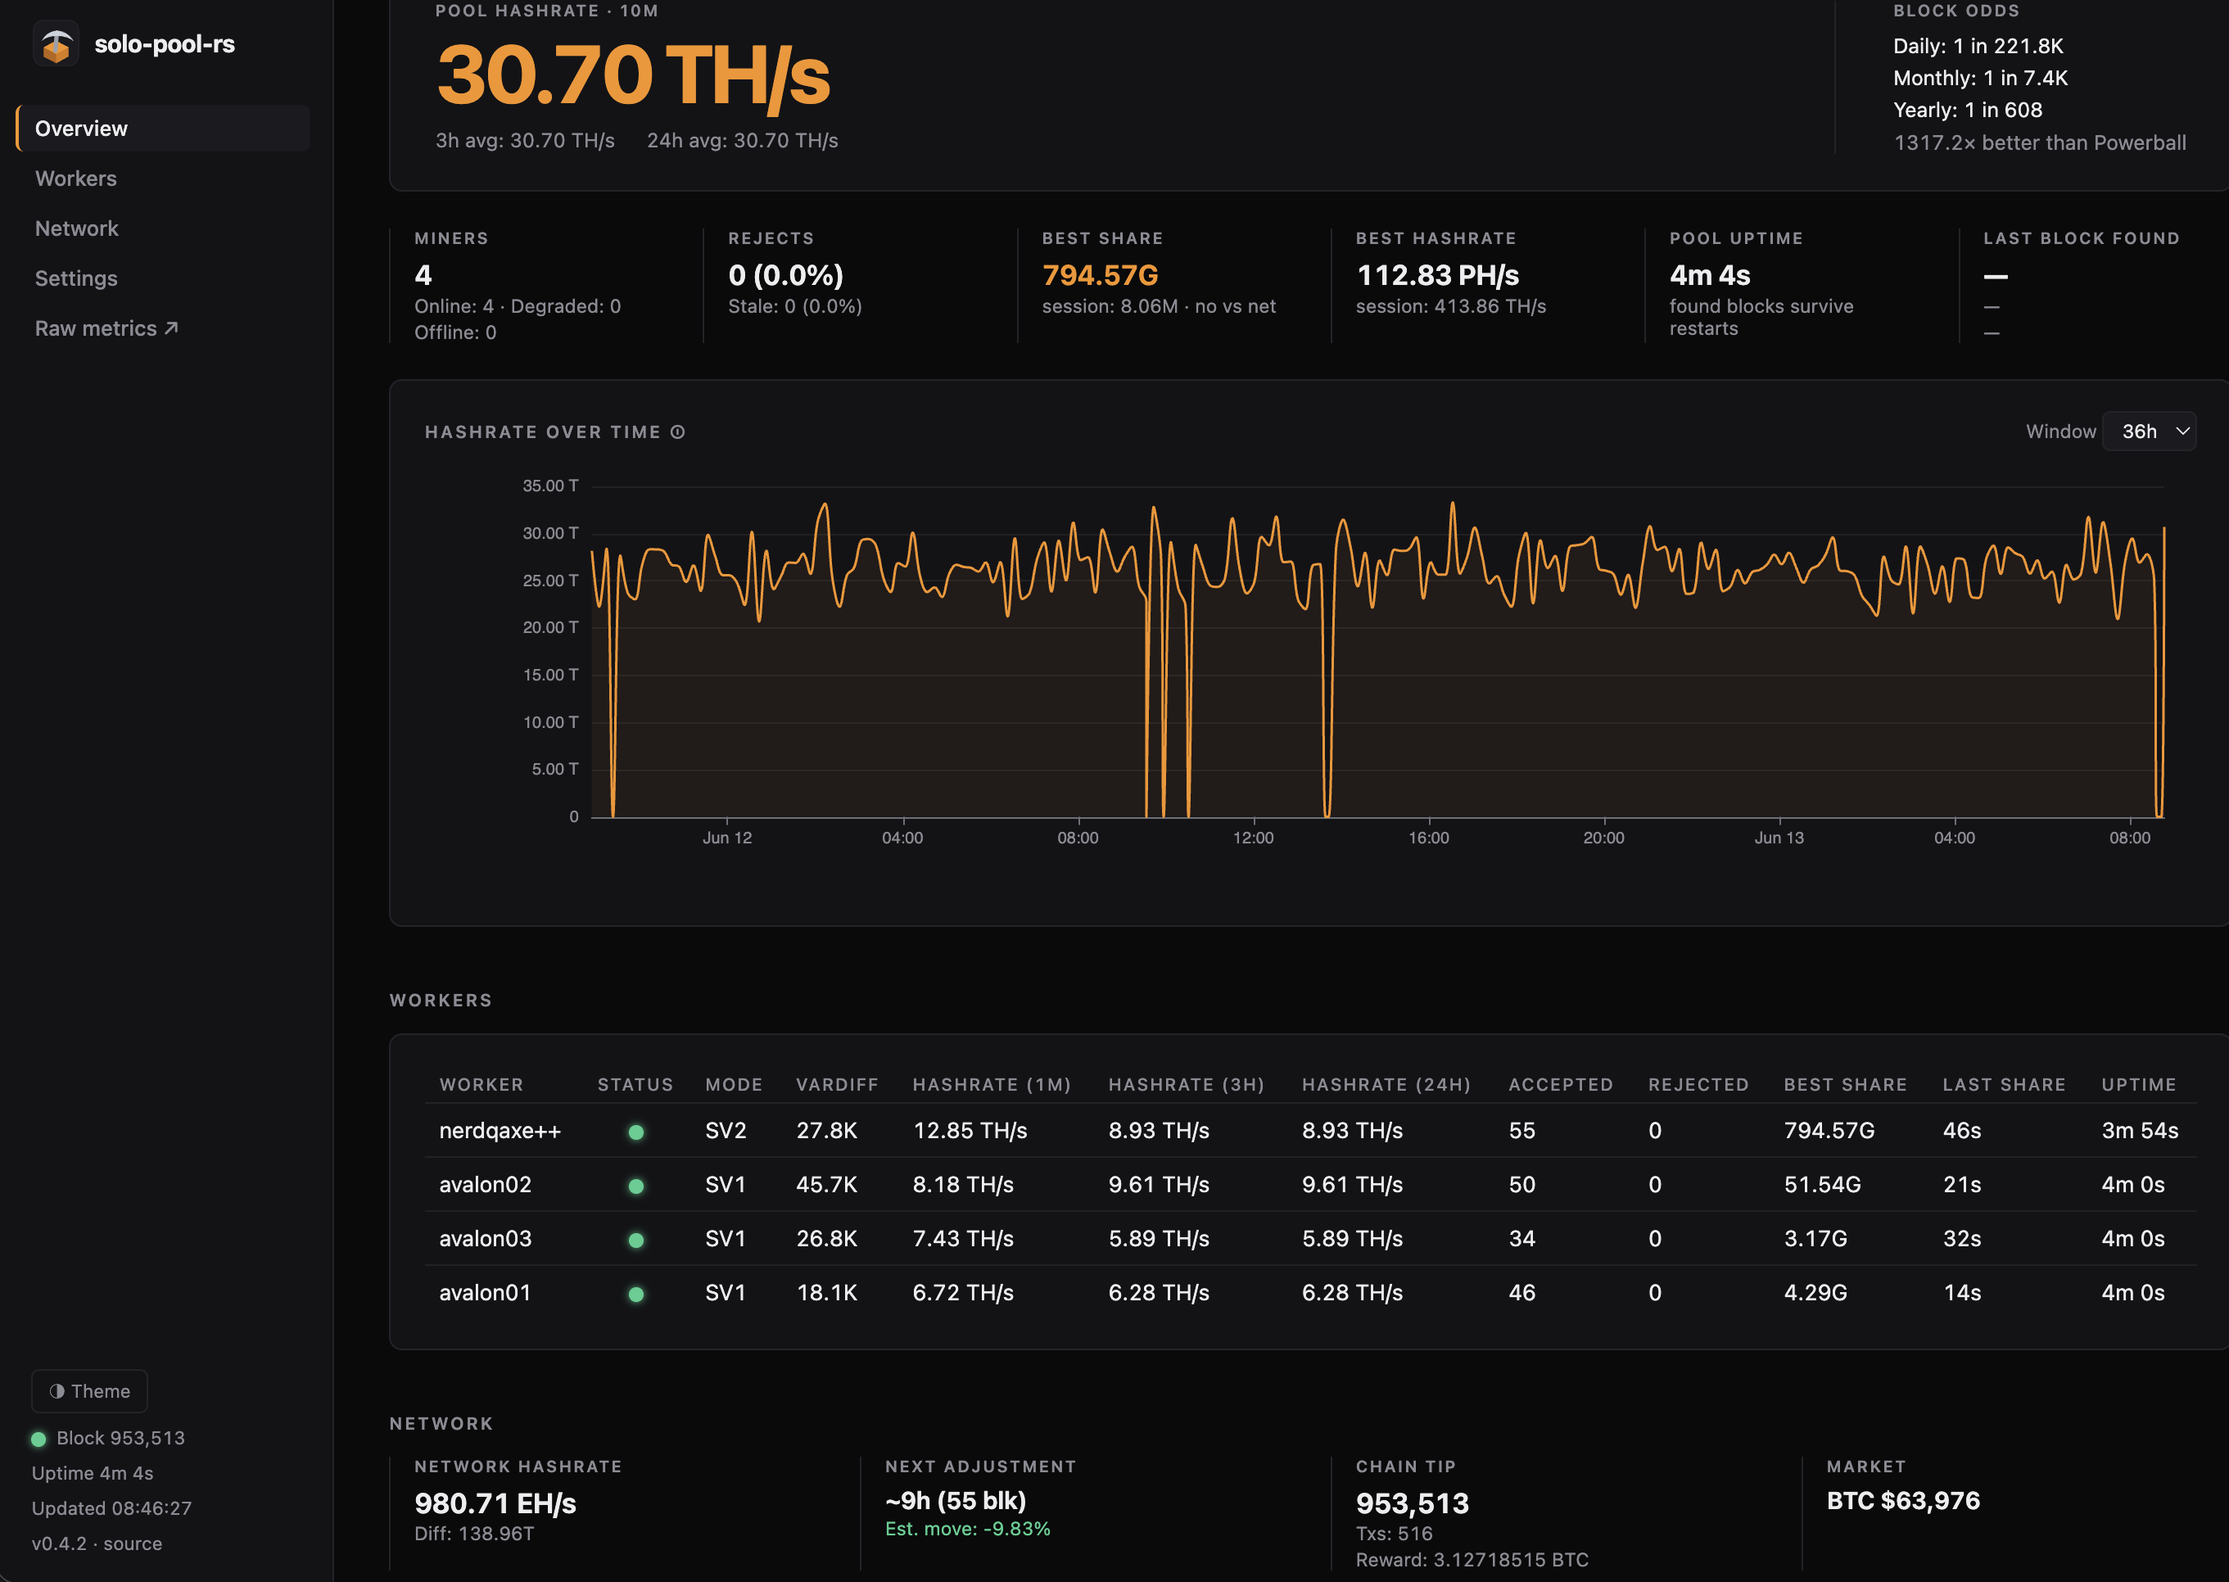
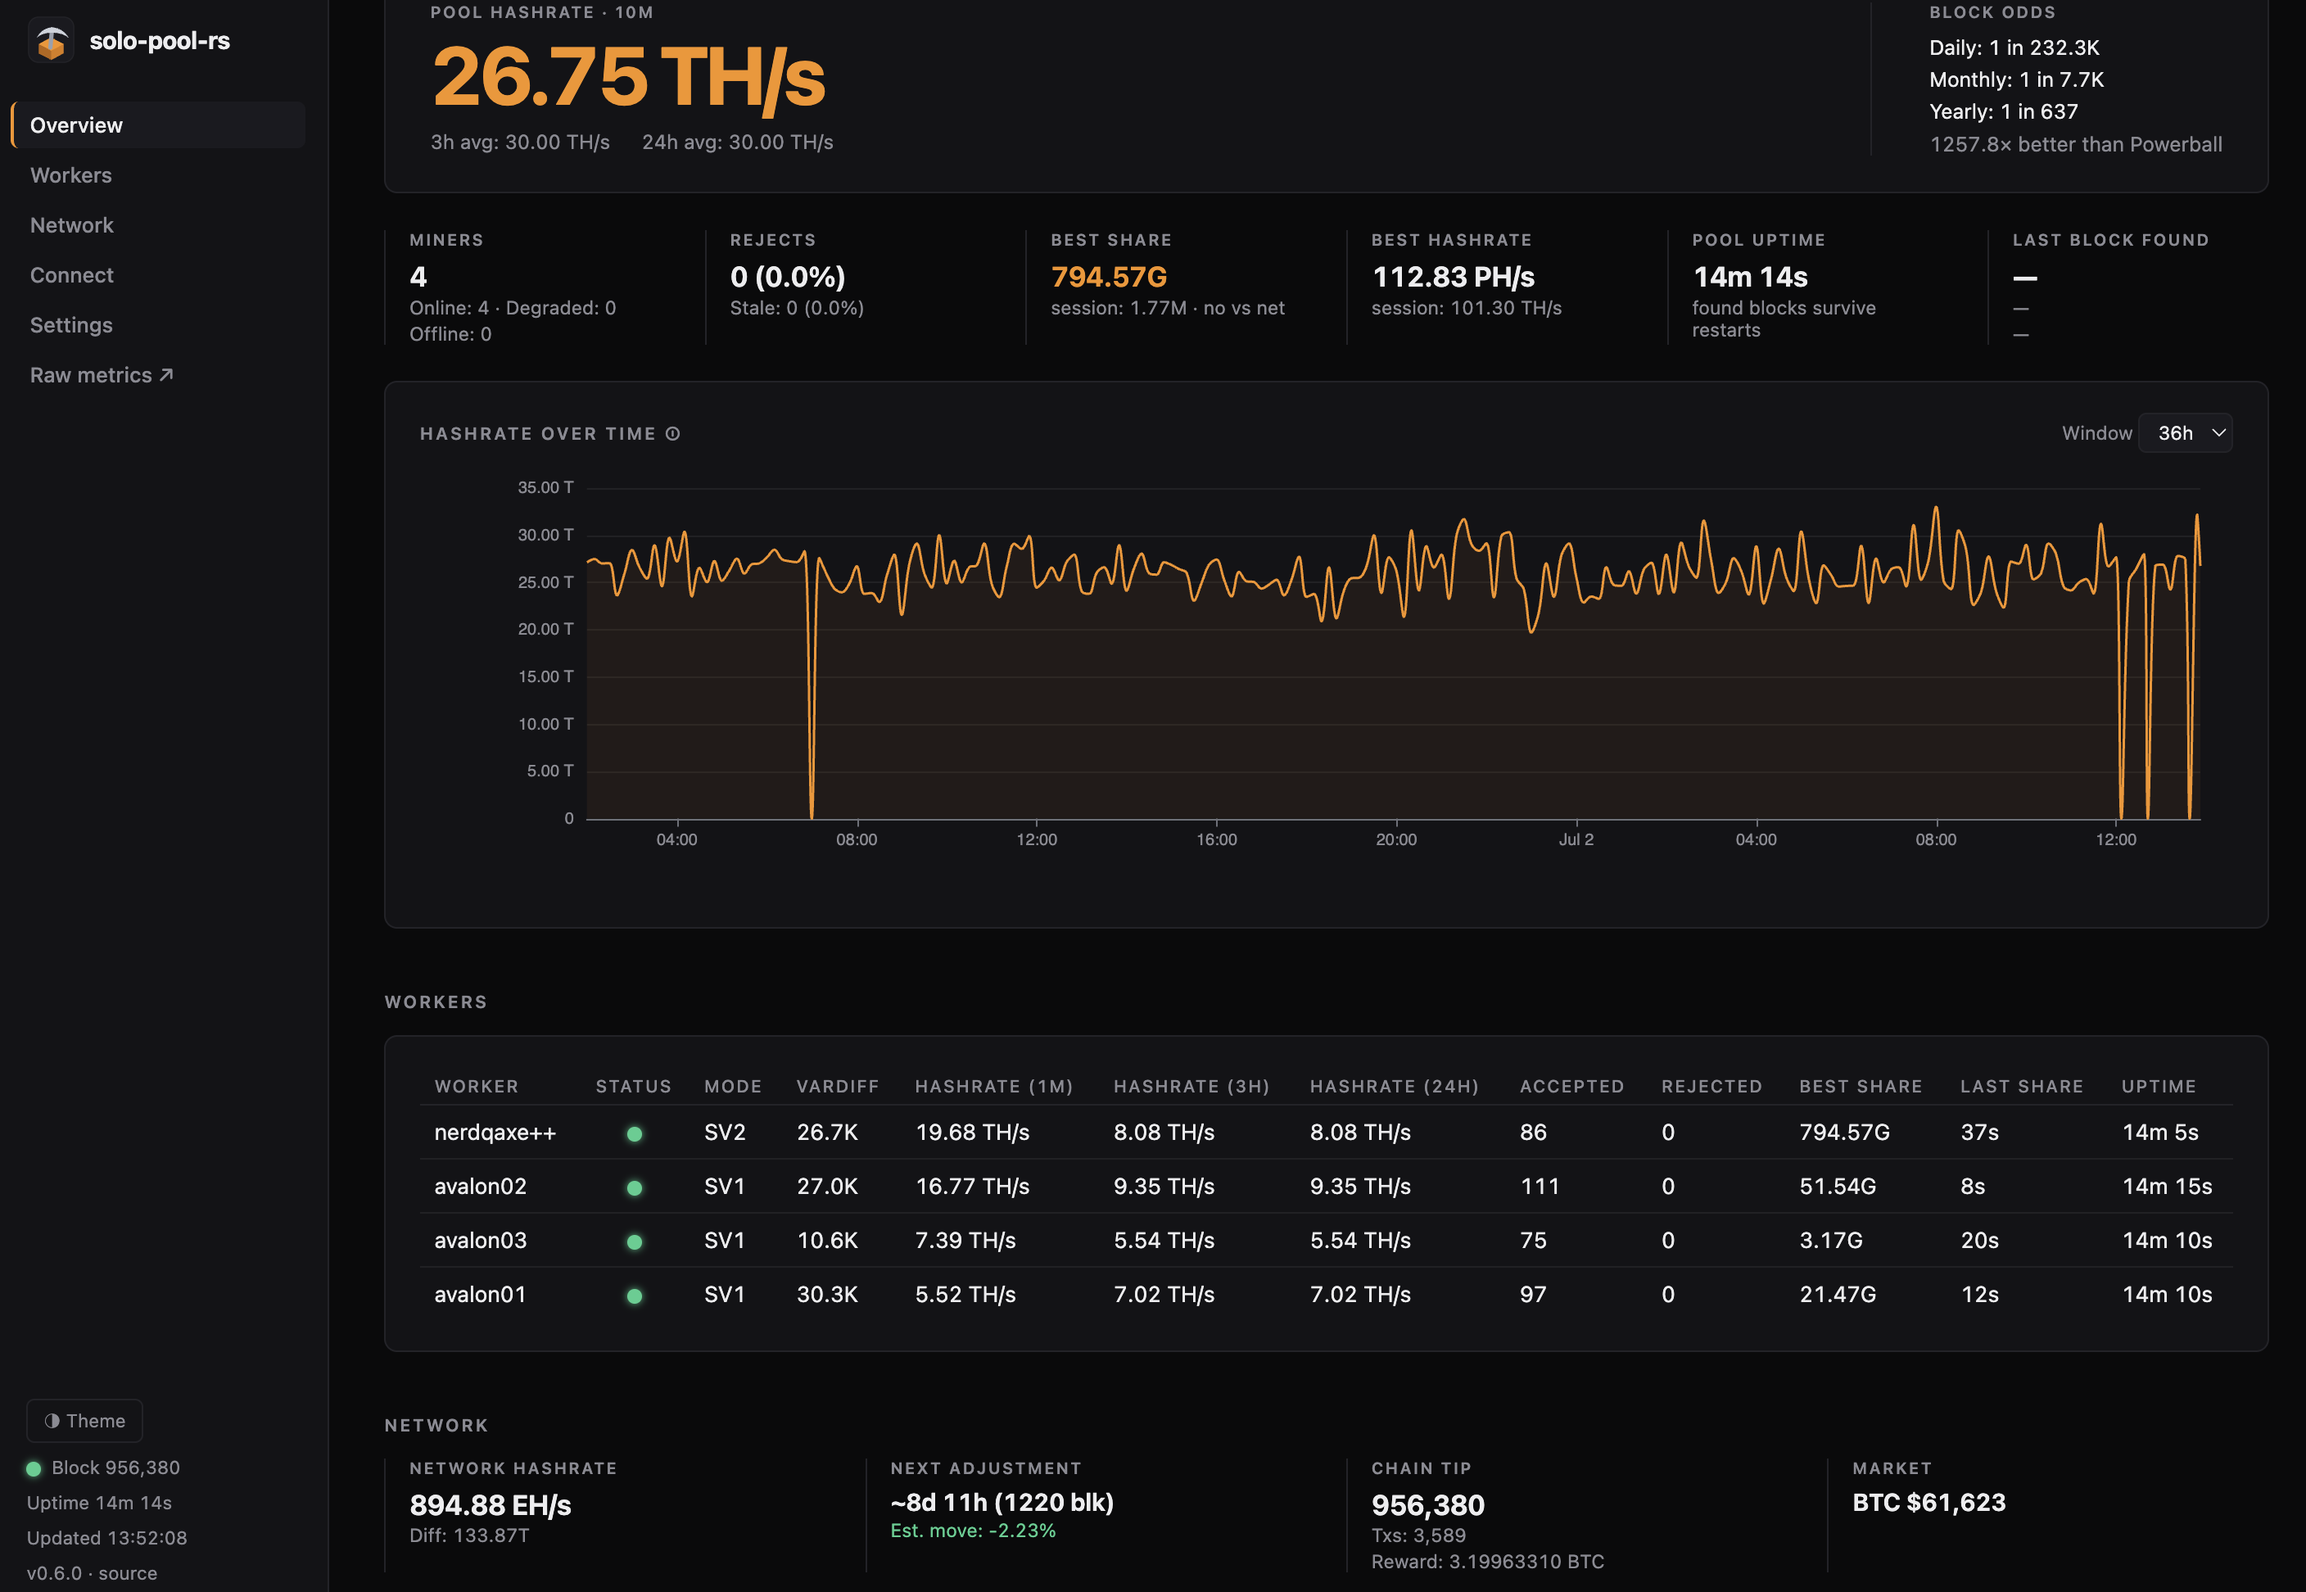
release: v0.6.0 — SV2 identity pinning, dedup + stats correctness
Roll [Unreleased] into 0.6.0 (2026-07-02), bump the crate version, mark
the shipped TODO items, and refresh the dashboard screenshot (Connect
modal now shows the SV2 authority public key).

Minor bump per the pre-1.0 convention: with SV2 enabled the pool now
fails at boot if it cannot create the authority key file, which breaks
deployments with a read-only working directory until authority_key_file
points somewhere writable (see the CHANGELOG upgrade note).

diff --git a/TODO.md b/TODO.md
@@ -25,12 +25,12 @@ underflow panic). Line references are as of that review and may drift.
   funnel through a dedicated writer thread, enable WAL + `synchronous=NORMAL`),
   and the dashboard `/history` + `/chart` SQLite scans (contend with the share
   path on the same connection mutex; wrap in `spawn_blocking`).
-- [x] **Harden the duplicate-share set** (unreleased, headed for v0.6.0):
+- [x] **Harden the duplicate-share set** (shipped in v0.6.0, 2026-07-02):
   shares are recorded for dedup only after validation passes, and the
   per-session set clears on every clean-job broadcast (live-jobs scoping); the
   4096 FIFO cap remains as a memory backstop only.
 - [x] **Credit background-retrier block acceptance to dashboard stats**
-  (unreleased, headed for v0.6.0): worker + `PoolStats` are threaded through
+  (shipped in v0.6.0, 2026-07-02): worker + `PoolStats` are threaded through
   `submit_found_block` into the resubmit task; retry success now mirrors the
   inline-success stats update.
 
@@ -38,7 +38,7 @@ underflow panic). Line references are as of that review and may drift.
 
 - [x] Monotonic guard on pool best-share/best-hashrate SQLite `UPDATE`s
   (`WHERE ?1 > ...`), matching the per-worker variant; best-hashrate in-memory
-  update is now a CAS. (unreleased, headed for v0.6.0)
+  update is now a CAS. (shipped in v0.6.0, 2026-07-02)
 - [x] Fix ghost-online accounting: repeated `mining.authorize` increments
   `active_sessions` per call but disconnect decrements once, for the last name
   only. (Fixed alongside the authorization cap: same-name re-auth is a no-op,
@@ -51,7 +51,7 @@ underflow panic). Line references are as of that review and may drift.
 ## Planned features
 
 - [x] **v0.4.0: non-root Docker image** (shipped in v0.4.0, 2026-06-11).
-- [x] **SV2 identity pinning** (unreleased, headed for v0.6.0): persistent
+- [x] **SV2 identity pinning** (shipped in v0.6.0, 2026-07-02): persistent
   Noise authority key (`[sv2] authority_key_file`, cookie-style
   create-on-first-start), pubkey logged at boot + shown in the dashboard
   Connect modal + `GET /api/info`; `persist_authority_key = false` opts out,

diff --git a/CHANGELOG.md b/CHANGELOG.md
@@ -9,6 +9,8 @@ everything else bumps the **patch** version.
 
 ## [Unreleased]
 
+## [0.6.0] - 2026-07-02
+
 ### Added
 - **SV2 pool identity (authority key pinning).** The Noise authority key now
   persists across restarts (`[sv2] authority_key_file`, created on first start
@@ -338,7 +340,8 @@ everything else bumps the **patch** version.
 - Dashboard rework: worker rendering and stats mapping fixes; reject rate moved
   into the rejected card; best share keyed by vardiff difficulty.
 
-[Unreleased]: https://github.com/cbyam/solo-pool-rs/compare/v0.5.1...HEAD
+[Unreleased]: https://github.com/cbyam/solo-pool-rs/compare/v0.6.0...HEAD
+[0.6.0]: https://github.com/cbyam/solo-pool-rs/compare/v0.5.1...v0.6.0
 [0.5.1]: https://github.com/cbyam/solo-pool-rs/compare/v0.5.0...v0.5.1
 [0.5.0]: https://github.com/cbyam/solo-pool-rs/compare/v0.4.2...v0.5.0
 [0.4.2]: https://github.com/cbyam/solo-pool-rs/compare/v0.4.1...v0.4.2
